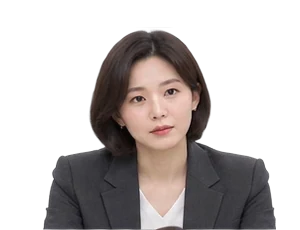
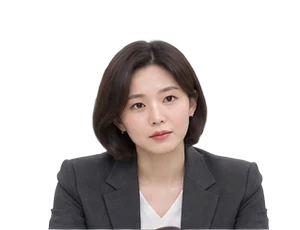
Photograph the whole panel and keep faces in view in a flat room
- Add the chair's and the practitioner's pose sheets; the practitioner's
  sheet has a baked-in checkerboard, which the build script now keys out
  (backdrop reachable from a cell's top or sides). Head width is measured
  on the crown row so neighbouring hands don't skew the scale.
- With all three seats photographed the room uses the photos by default
  (?panel=svg shows the drawings).
- The room's viewBox follows the element's size: a wide, short room shows
  a band that never starts below the hair line, dropping the name plates
  first, and a very thin one is centred on the eyes. Previously the scene
  was bottom-anchored and cut off the heads.
- Speech bubble sits beside the speaker's head instead of above it.

Claude-Session: https://claude.ai/code/session_01FoDoDUnCfXT3ToS1YQZ45B

diff --git a/src/components/InterviewRoom.tsx b/src/components/InterviewRoom.tsx
@@ -6,7 +6,7 @@
  * The interviewer who asks the current question talks; while answers are
  * reviewed the whole panel looks down and writes on the evaluation sheet.
  */
-import { memo, useEffect, useState } from "react";
+import { memo, useEffect, useLayoutEffect, useRef, useState } from "react";
 import { useReducedMotion } from "framer-motion";
 import { useNow } from "../hooks/useTimer";
 import type { PanelMember, Seat } from "../config/panel";
@@ -30,14 +30,45 @@ interface Props {
 
 const SEAT_X: Record<Seat, number> = { left: 330, center: 600, right: 870 };
 const DESK_Y = 372;
+const SCENE = { width: 1200, height: 520 };
+/** Just above the tallest hair. However short the room gets, the crop never starts below this. */
+const FACE_TOP = 136;
+/** Eye line: a band too thin for whole heads is centred here, so it shows eyes to chin rather than hair. */
+const EYE_Y = 208;
+
+/**
+ * The part of the scene to show for the element's size. Wider than the scene: the full width and a
+ * horizontal band — bottom-anchored (or centred), but never cutting into the heads; the name plates
+ * go first. Taller (phones): the full height, cropped at the sides by preserveAspectRatio.
+ */
+function useViewBox(anchor: "bottom" | "center") {
+  const ref = useRef<SVGSVGElement>(null);
+  const [size, setSize] = useState<{ w: number; h: number } | null>(null);
+  useLayoutEffect(() => {
+    const el = ref.current;
+    if (!el || typeof ResizeObserver === "undefined") return;
+    const measure = () => setSize({ w: el.clientWidth, h: el.clientHeight });
+    measure();
+    const ro = new ResizeObserver(measure);
+    ro.observe(el);
+    return () => ro.disconnect();
+  }, []);
+  const visible = size && size.w > 0 ? (SCENE.width * size.h) / size.w : SCENE.height;
+  if (visible >= SCENE.height) return { ref, viewBox: `0 0 ${SCENE.width} ${SCENE.height}` };
+  const spare = SCENE.height - visible;
+  const y = visible < 2 * (EYE_Y - FACE_TOP) ? EYE_Y - visible / 2 : Math.min(anchor === "center" ? spare / 2 : spare, FACE_TOP);
+  return { ref, viewBox: `0 ${y.toFixed(1)} ${SCENE.width} ${visible.toFixed(1)}` };
+}
 
 export function InterviewRoom({ panel, speaking, mode, activity = 0, roomLabel = "제2면접실", companyName, anchor = "bottom", className = "" }: Props) {
   const [photos] = useState(photosEnabled);
+  const { ref, viewBox } = useViewBox(anchor);
   const photoSeat = (seat: Seat) => photos && PANEL_PHOTOS[seat] !== undefined;
   return (
     <svg
-      viewBox="0 0 1200 520"
-      preserveAspectRatio={anchor === "center" ? "xMidYMid slice" : "xMidYMax slice"}
+      ref={ref}
+      viewBox={viewBox}
+      preserveAspectRatio="xMidYMid slice"
       className={`block h-full w-full ${className}`}
       role="img"
       aria-label={`면접실. 면접관 3명이 책상에 앉아 있습니다. ${
@@ -154,7 +185,7 @@ export function InterviewRoom({ panel, speaking, mode, activity = 0, roomLabel =
       {/* desk front panel + name plates */}
       <rect x="4" y={DESK_Y + 33} width="1192" height={520 - DESK_Y - 33} fill="url(#deskFront)" />
       <rect x="4" y={DESK_Y + 33} width="1192" height="6" fill="#000" opacity="0.06" />
-      {/* table banner — visible at any crop since the scene is bottom-anchored */}
+      {/* table banner — visible unless the room is squeezed so flat that the faces need the space */}
       <g transform={`translate(600 ${DESK_Y + 106})`}>
         <rect x="-190" y="0" width="380" height="30" rx="2" fill="#1f2b45" />
         <text x="0" y="20" textAnchor="middle" fontSize="14" fontWeight="700" fill="#eef1f4" letterSpacing="2" fontFamily="Pretendard Variable, sans-serif">
@@ -167,7 +198,7 @@ export function InterviewRoom({ panel, speaking, mode, activity = 0, roomLabel =
 
       {/* speech bubble over the interviewer who is talking */}
       {mode === "asking" && speaking && (
-        <g transform={`translate(${SEAT_X[speaking] + 44} ${DESK_Y - 262})`}>
+        <g transform={photoSeat(speaking) ? `translate(${SEAT_X[speaking] + 74} ${DESK_Y - 214})` : `translate(${SEAT_X[speaking] + 44} ${DESK_Y - 232})`}>
           <path d="M0 0 h58 a10 10 0 0 1 10 10 v18 a10 10 0 0 1 -10 10 h-40 l-14 12 l2 -12 h-6 a10 10 0 0 1 -10 -10 v-18 a10 10 0 0 1 10 -10 z" fill="#ffffff" stroke="#1b3a6b" strokeOpacity="0.35" />
           {[0, 1, 2].map((d) => (
             <circle key={d} cx={18 + d * 14} cy="19" r="4" fill="#1b3a6b" className="iv-part" style={{ animation: `iv-dot 1s ease-in-out ${d * 0.15}s infinite` }} />

diff --git a/src/config/panelPhotos.ts b/src/config/panelPhotos.ts
@@ -4,7 +4,7 @@
  *
  * The room shows photos only once every seat has a set — a photo next to a
  * drawn figure looks wrong — and falls back to the SVG figures otherwise.
- * `?panel=photo` previews whatever photos exist.
+ * `?panel=photo` previews whatever photos exist; `?panel=svg` forces the drawings.
  */
 import type { Seat } from "./panel";
 
@@ -17,6 +17,8 @@ export const PHOTO_BOX = { width: 300, height: 230 };
 /** Number of frames per state for each seat that has photos. */
 export const PANEL_PHOTOS: Partial<Record<Seat, PhotoSet>> = {
   left: { idle: 3, think: 3, talk: 4, review: 3 },
+  center: { idle: 3, think: 3, talk: 4, review: 3 },
+  right: { idle: 3, think: 3, talk: 4, review: 3 },
 };
 
 export function photoSrc(seat: Seat, state: PhotoState, n: number): string {
@@ -24,7 +26,8 @@ export function photoSrc(seat: Seat, state: PhotoState, n: number): string {
 }
 
 export function photosEnabled(): boolean {
-  const complete = (["left", "center", "right"] as Seat[]).every((s) => PANEL_PHOTOS[s]);
-  if (complete) return true;
-  return typeof window !== "undefined" && new URLSearchParams(window.location.search).get("panel") === "photo";
+  const param = typeof window !== "undefined" ? new URLSearchParams(window.location.search).get("panel") : null;
+  if (param === "svg") return false;
+  if (param === "photo") return true;
+  return (["left", "center", "right"] as Seat[]).every((s) => PANEL_PHOTOS[s]);
 }

diff --git a/scripts/build-panel-photos.py b/scripts/build-panel-photos.py
@@ -2,8 +2,10 @@
 Cut interviewer pose sheets into aligned frames for the interview room.
 
   assets/panel/frames.json        which sheet cells to use for each state, per seat
-  assets/panel/<seat>-sheet.webp  pose sheet: a grid of head-and-shoulders shots on a
-                                  transparent background, each cut straight at the desk line
+  assets/panel/<seat>-sheet.webp  pose sheet: a grid of head-and-shoulders shots, each cut
+                                  straight at the desk line, on a transparent background — or on
+                                  a baked-in grey/white checkerboard ("background": "checker"),
+                                  which is keyed out here
   → public/panel/<seat>/<state>-<n>.webp
 
 Every frame is placed on the same canvas with the desk line at the bottom, the head
@@ -26,16 +28,40 @@ CANVAS = (300, 230)  # width, height — must match PHOTO_BOX in src/config/pane
 HEAD_W = 112  # normalised width of the head (hair included) in px
 
 
+def is_backdrop(a):
+    """Light, colourless pixels: the checkerboard squares (and white shirts/paper, told apart by connectivity)."""
+    rgb = a[:, :, :3].astype(int)
+    return (rgb.min(axis=2) >= 188) & (rgb.max(axis=2) - rgb.min(axis=2) <= 14)
+
+
+def key_checker(a, cols, rows):
+    """Turn a checkerboard sheet into RGBA: backdrop reachable from a cell's top or sides becomes transparent."""
+    a = a.copy()
+    a[:, :, 3] = np.where(is_backdrop(a), 0, 255)  # rough alpha, only to find the grid
+    for x0, t, x1, b in grid_cells(a, cols, rows).values():
+        cand = is_backdrop(a[t:b, x0:x1])
+        lab, _ = ndimage.label(cand)
+        edge = set(np.unique(np.concatenate([lab[0], lab[:, 0], lab[:, -1]]))) - {0}
+        bg = np.isin(lab, list(edge))
+        bg = ndimage.binary_dilation(bg, iterations=1)  # eat the grey fringe along hair and shoulders
+        alpha = np.where(bg, 0.0, 255.0)
+        alpha = ndimage.gaussian_filter(alpha, 0.6)
+        a[t:b, x0:x1, 3] = np.clip(alpha, 0, 255).astype(np.uint8)
+    return a
+
+
 def grid_cells(a, cols, rows):
     """Row bounds are the straight desk cuts; column bounds the emptiest columns near each 1/cols."""
     al = a[:, :, 3] > 128
     h, w = al.shape
     op = al.mean(axis=1)
     bottoms = [y for y in range(1, h) if op[y - 1] - op[y] > 0.4]
+    if len(bottoms) == rows - 1:  # the last row runs to the image edge
+        bottoms.append(h)
     if len(bottoms) != rows:
         sys.exit(f"expected {rows} rows, found desk cuts at {bottoms}")
     cells = {}
-    for r, (t, b) in enumerate(zip([0] + bottoms[:-1], bottoms)):
+    for r, (t, b) in enumerate(zip([0] + [y + 2 for y in bottoms[:-1]], bottoms)):  # +2: skip the cut line above
         colop = al[t:b].mean(axis=0)
         cuts = [0]
         for k in range(1, cols):
@@ -61,10 +87,22 @@ def frame(a, box):
             if xs.min() > 2 and xs.max() < crop.shape[1] - 3:
                 keep |= lab == i
     crop[~keep, 3] = 0
-    ys = np.where(crop[:, :, 3] > 128)[0]
-    band = crop[ys.min() : ys.min() + 60, :, 3] > 128
-    hx = np.where(band.any(axis=0))[0]
-    cx, hw = (hx.min() + hx.max()) / 2, hx.max() - hx.min()
+    # head: widest run of opaque pixels through the crown, over the first rows below the top
+    op = crop[:, :, 3] > 128
+    ys, xs = np.where(op)
+    top = ys.min()
+    x = int(np.median(xs[ys <= top + 4]))
+    hw, cx = 0, x
+    for y in range(top, min(top + 70, op.shape[0])):
+        if not op[y, x]:
+            continue
+        l, r = x, x
+        while l > 0 and op[y, l - 1]:
+            l -= 1
+        while r < op.shape[1] - 1 and op[y, r + 1]:
+            r += 1
+        if r - l > hw and r - l < 0.6 * op.shape[1]:  # stop before the shoulders
+            hw, cx = r - l, (l + r) / 2
     img = Image.fromarray(crop)
     s = HEAD_W / hw
     img = img.resize((round(img.width * s), round(img.height * s)), Image.LANCZOS)
@@ -79,6 +117,8 @@ def main():
         if seat.startswith("_"):
             continue
         a = np.asarray(Image.open(os.path.join(SRC, cfg["sheet"])).convert("RGBA"))
+        if cfg.get("background") == "checker":
+            a = key_checker(a, *cfg["grid"])
         cells = grid_cells(a, *cfg["grid"])
         os.makedirs(os.path.join(OUT, seat), exist_ok=True)
         for state, names in cfg["frames"].items():
